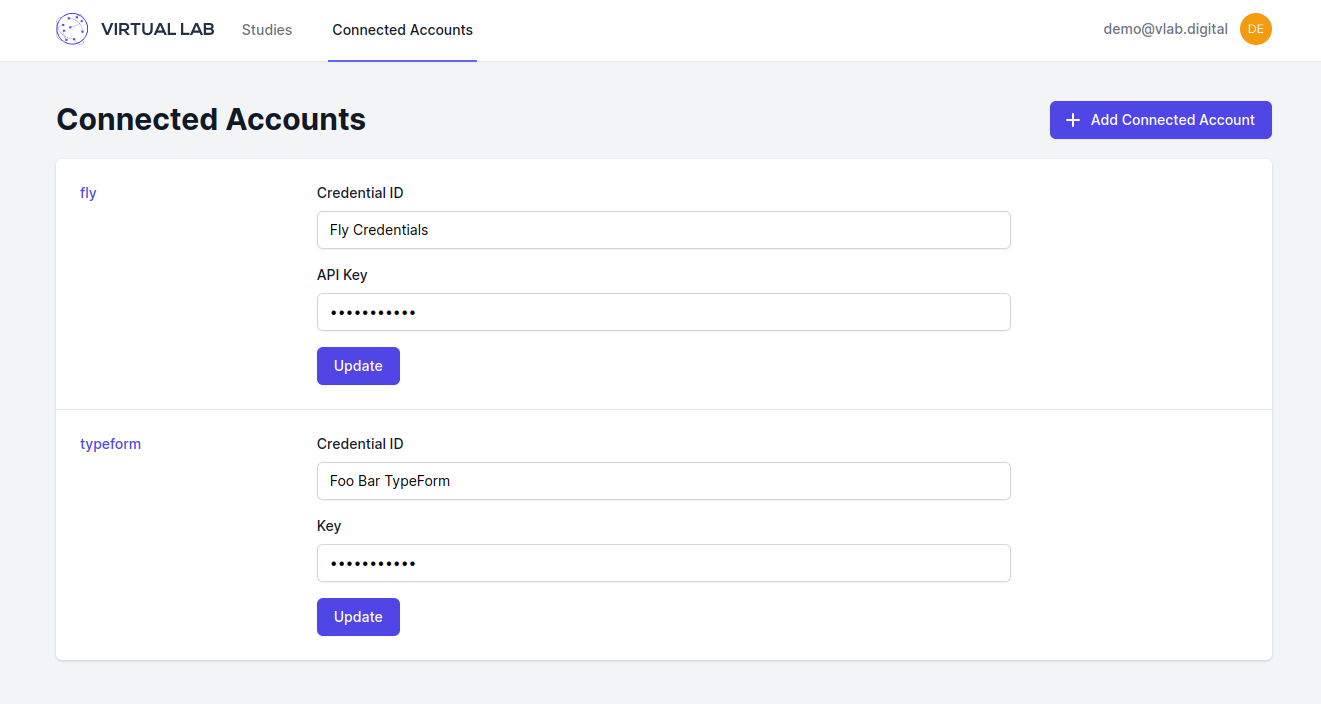
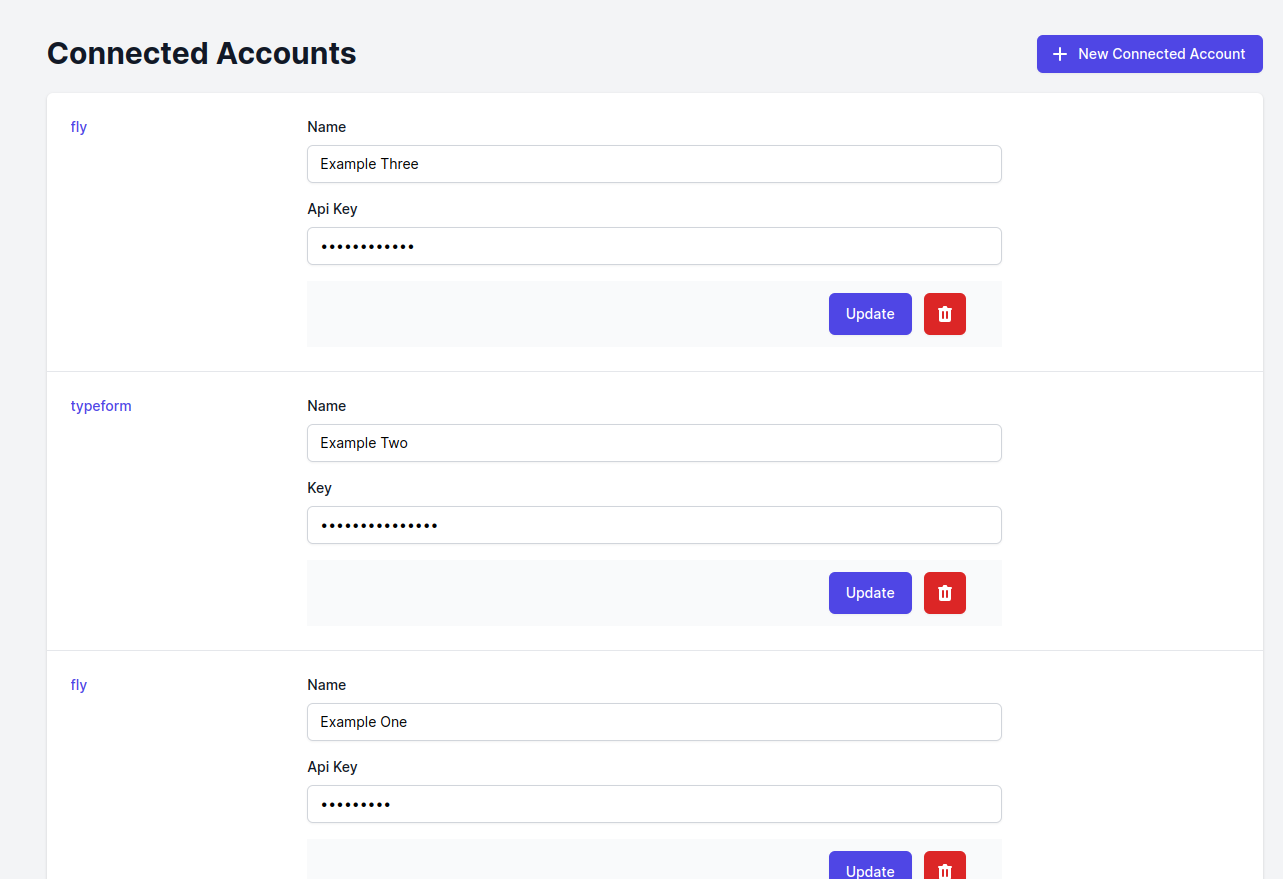
docs: add how to delete account

diff --git a/content/conneected-accounts/delete-accounts.md b/content/conneected-accounts/delete-accounts.md
@@ -1,0 +1,19 @@
+---
+title: "Delete Accounts"
+date: 2023-04-24T15:21:31+02:00
+draft: false
+---
+
+In order to delete an account you will need to navigate to the "Connected
+Accounts" Tab and find the Connected Account You would like to delete.
+
+![Connected Accounts Page](/images/connected-accounts-page.png)
+
+You will need to click on the trash can icon on the account that you would like
+to delete
+
+![Connected Account](/images/single-connected-account.png)
+
+You should get a success message stating the account has been deleted
+
+![Success Account](/images/deleted-account-success.png)

diff --git a/content/conneected-accounts/_index.md b/content/conneected-accounts/_index.md
@@ -10,3 +10,5 @@ supported
 
 - [Fly]({{< ref fly.md >}} "Fly")
 - [Tyepform]({{< ref typeform.md >}} "Typeform")
+
+ You can also see [how to delete a connected account]({{< ref delete-accounts.md >}} "Delete Accounts")
